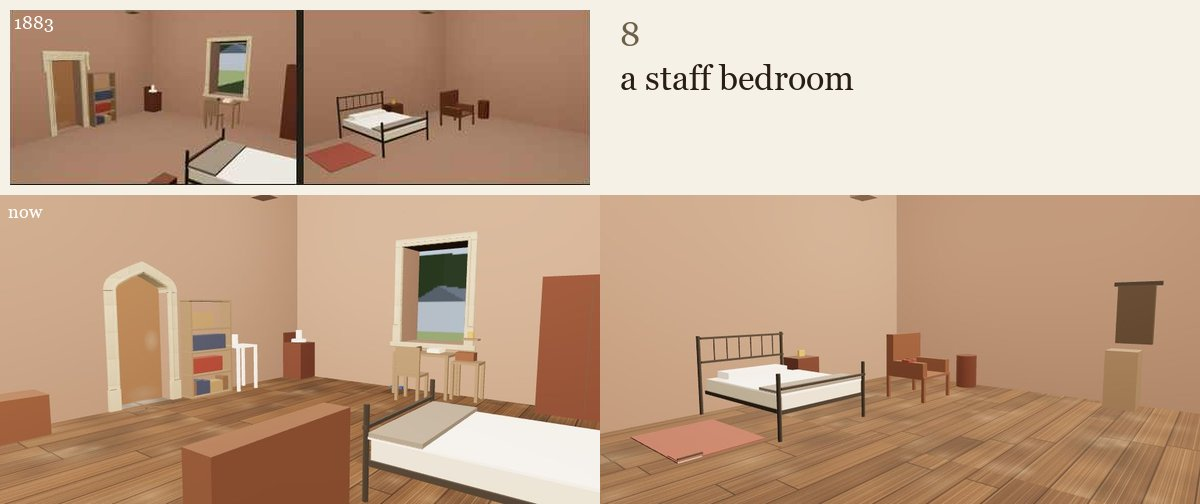
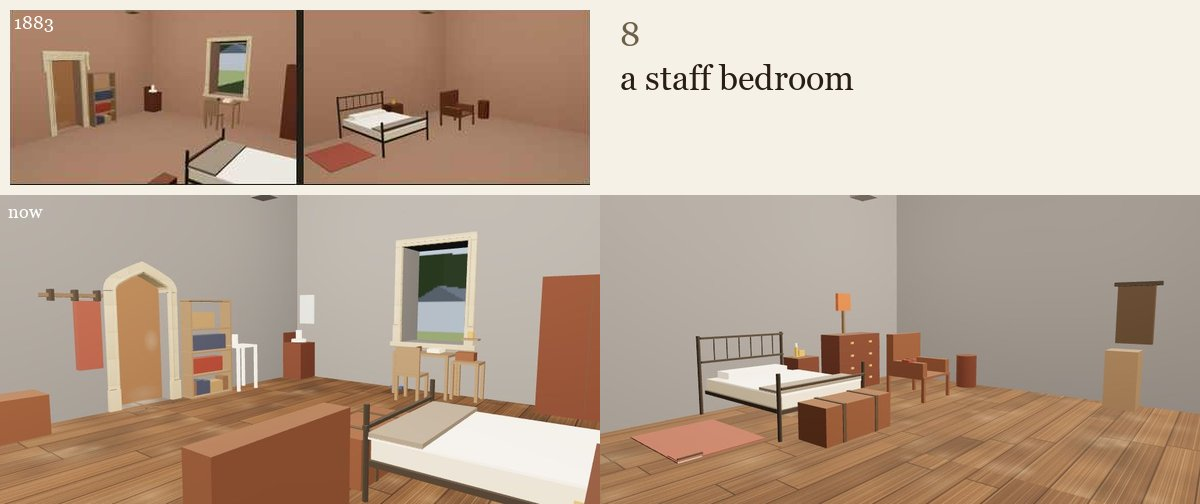
Staff bedroom things, room 8 image

diff --git a/page/shell-w5a.js b/page/shell-w5a.js
@@ -1581,7 +1581,7 @@ window.SHELL_W5A = {
       ['b', 2.4, 18.37, 0.87, 3.0, 18.77, 0.9, 'wood']] },
     /* G-THINGS end elves-service-stair-g */
     /* G-THINGS staff-bedroom-g */
-    /* docs/interiors/staff-dining-room.md (G-ad, req 1841): the iron bedstead made with its counterpane, the blanket at its foot and the rug beside it, the bedside cupboard and alarm clock, the wardrobe shut, the writing desk and chair under the window (the model's window is on the left wall), the bookcase, the washstand with jug and bowl, the leather armchair and side table by the hearth (not yet built; its front kept clear); the walk from the door clear */
+    /* docs/interiors/staff-dining-room.md (G-ad, req 1841; req 2217 n 8: the chest of drawers and the copper warming pan on the south wall, the strapped trunk at the bed foot, the candle, boots, the gown on pegs, the looking glass): the iron bedstead made with its counterpane, the blanket at its foot and the rug beside it, the bedside cupboard and alarm clock, the wardrobe shut, the writing desk and chair under the window (the model's window is on the left wall), the bookcase, the washstand with jug and bowl, the leather armchair and side table by the hearth (not yet built; its front kept clear); the walk from the door clear */
     'staff-bedroom-g': { items: [
       ['y', 155.455, 50.9, 0.025, 0, 1.15, 'iron'], ['y', 156.855, 50.9, 0.025, 0, 1.15, 'iron'], ['y', 155.455, 52.84, 0.025, 0, 0.8, 'iron'], ['y', 156.855, 52.84, 0.025, 0, 0.8, 'iron'],
       ['b', 155.425, 50.88, 0.75, 156.825, 50.92, 0.78, 'iron'], ['b', 155.425, 50.88, 1.1, 156.825, 50.92, 1.13, 'iron'], ['y', 155.625, 50.9, 0.008, 0.75, 1.1, 'iron'], ['y', 155.825, 50.9, 0.008, 0.75, 1.1, 'iron'],
@@ -1593,7 +1593,14 @@ window.SHELL_W5A = {
       ['b', 158.94, 53.84, 0.46, 158.98, 54.26, 0.91, 'oak'], ['s', 156.825, 56.97, 157.725, 57.27, [0.02, 0.4, 0.8, 1.2, 1.7], 'oak'], ['b', 156.855, 57.01, 0.04, 157.653, 57.23, 0.3, 'books'], ['b', 156.855, 57.01, 0.42, 157.527, 57.23, 0.68, 'books2'],
       ['b', 156.855, 57.01, 0.82, 157.611, 57.23, 1.08, 'books4'], ['b', 156.855, 57.01, 1.22, 157.359, 57.23, 1.48, 'books5'], ['b', 159.5, 56.75, 0, 160.02, 57.27, 0.78, 'mahog'], ['b', 159.5, 57.23, 0.78, 160.02, 57.27, 1.0, 'mahog'],
       ['y', 159.75, 57.0, 0.17, 0.78, 0.86, 'white'], ['y', 159.75, 57.0, 0.07, 0.8, 1.06, 'white'], ['y', 152.5, 52.85, 0.2, 0, 0.62, 'mahog'], ['t', 153.45, 52.25, 154.25, 53.05, 0.42, 'leather'],
-      ['b', 153.45, 52.25, 0.42, 154.25, 52.4, 1.1, 'leather'], ['b', 153.45, 52.25, 0.42, 153.57, 53.03, 0.65, 'leather'], ['b', 154.13, 52.25, 0.42, 154.25, 53.03, 0.65, 'leather']] },
+      ['b', 153.45, 52.25, 0.42, 154.25, 52.4, 1.1, 'leather'], ['b', 153.45, 52.25, 0.42, 153.57, 53.03, 0.65, 'leather'], ['b', 154.13, 52.25, 0.42, 154.25, 53.03, 0.65, 'leather'], ['b', 153.425, 50.83, 0, 154.525, 51.35, 1.05, 'mahog'],
+      ['b', 153.425, 51.34, 0.28, 154.525, 51.36, 0.295, 'dark'], ['b', 153.425, 51.34, 0.52, 154.525, 51.36, 0.535, 'dark'], ['b', 153.425, 51.34, 0.76, 154.525, 51.36, 0.775, 'dark'], ['b', 153.695, 51.35, 0.17, 153.755, 51.39, 0.21, 'brass'],
+      ['b', 154.195, 51.35, 0.17, 154.255, 51.39, 0.21, 'brass'], ['b', 153.695, 51.35, 0.4, 153.755, 51.39, 0.44, 'brass'], ['b', 154.195, 51.35, 0.4, 154.255, 51.39, 0.44, 'brass'], ['b', 153.695, 51.35, 0.64, 153.755, 51.39, 0.68, 'brass'],
+      ['b', 154.195, 51.35, 0.64, 154.255, 51.39, 0.68, 'brass'], ['b', 153.695, 51.35, 0.88, 153.755, 51.39, 0.92, 'brass'], ['b', 154.195, 51.35, 0.88, 154.255, 51.39, 0.92, 'brass'], ['b', 153.805, 50.85, 1.5, 154.145, 50.92, 1.84, 'copper'],
+      ['b', 153.955, 50.85, 1.0, 153.995, 50.91, 1.5, 'wood'], ['b', 155.575, 52.95, 0, 156.675, 53.45, 0.45, 'leather'], ['b', 155.825, 52.94, 0, 155.875, 53.46, 0.46, 'dark'], ['b', 156.375, 52.94, 0, 156.425, 53.46, 0.46, 'dark'],
+      ['b', 155.985, 52.94, 0.2, 156.065, 52.96, 0.3, 'brass'], ['y', 155.255, 51.05, 0.03, 0.7, 0.88, 'brass'], ['y', 155.255, 51.05, 0.06, 0.7, 0.72, 'brass'], ['y', 155.255, 51.05, 0.02, 0.88, 0.95, 'tallow'],
+      ['b', 155.625, 51.37, 0, 155.745, 51.65, 0.12, 'black'], ['b', 155.825, 51.37, 0, 155.945, 51.65, 0.12, 'black'], ['b', 154.675, 57.17, 1.7, 155.475, 57.27, 1.75, 'wood'], ['b', 154.775, 57.11, 1.65, 154.815, 57.27, 1.8, 'iron'],
+      ['b', 155.075, 57.11, 1.65, 155.115, 57.27, 1.8, 'iron'], ['b', 155.375, 57.11, 1.65, 155.415, 57.27, 1.8, 'iron'], ['b', 155.055, 57.05, 0.7, 155.375, 57.17, 1.65, 'cloth'], ['b', 159.97, 56.75, 1.2, 160.02, 57.15, 1.85, 'glass']] },
     /* G-THINGS end staff-bedroom-g */
     /* G-THINGS staff-dining-room */
     /* docs/interiors/staff-dining-room.md (G-u, req 1841): the long table and its linen, eight chairs and the head's, the settings at nine places, the ring chandelier, the sideboard and its silver, the longcase clock, three portraits on the back wall, the hearth's fender, rug, irons and basket (the hearth itself not yet built); the way round the table and the door's swing clear */

diff --git a/page/shell.html b/page/shell.html
@@ -191,7 +191,7 @@ line, the mote, travel and reveal) is castle.js's, unedited.
 <script src="depth-ties.js?v=1"></script>
 <script src="corridor/suit.js?v=6"></script>
 <script src="corridor/knight.js?v=2"></script>
-<script src="shell-w5a.js?v=80"></script>
+<script src="shell-w5a.js?v=81"></script>
 <script src="shell-things-2.js?v=22"></script>
 <script src="shell-things-7.js?v=4"></script>
 <script src="shell-things-3.js?v=4"></script>
